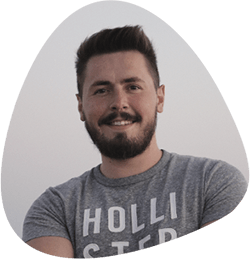
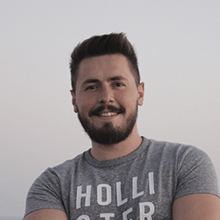
adjusted welcome image

diff --git a/src/pages/index.tsx b/src/pages/index.tsx
@@ -1,17 +1,25 @@
 import { Box, Flex } from '@chakra-ui/core';
+import styled from '@emotion/styled';
 import Image from 'next/image';
 import Layout from '../components/layout';
 
 const ORANGE = '#ffa300';
+
+const StyledImageBox = styled(Box)`
+  img {
+    border-radius: 42% 58% 70% 30% / 70% 60% 40% 30%;
+    box-shadow: 0 10px 15px -3px rgb(172 100 0 / 14%), 0 4px 6px -2px rgb(160 86 0 / 10%);
+  }
+`;
 
 export default function Home() {
   return (
     <Layout>
       <Flex w="100%" direction="column" align="center">
         <Flex direction={['column', 'row']}>
-          <Box m="auto" mr={['auto', 4]} mb={[4, 0]}>
-            <Image src="/images/profile-placeholder.png" width={200} height={211} />
-          </Box>
+          <StyledImageBox m="auto" mr={['auto', 4]} mb={[4, 0]}>
+            <Image src="/images/profile-placeholder.png" width={220} height={220} />
+          </StyledImageBox>
           <Flex maxW={400} justify="center" direction="column">
             <Box mb={1} as="h1">
               <Box display="inline-block" position="relative">
